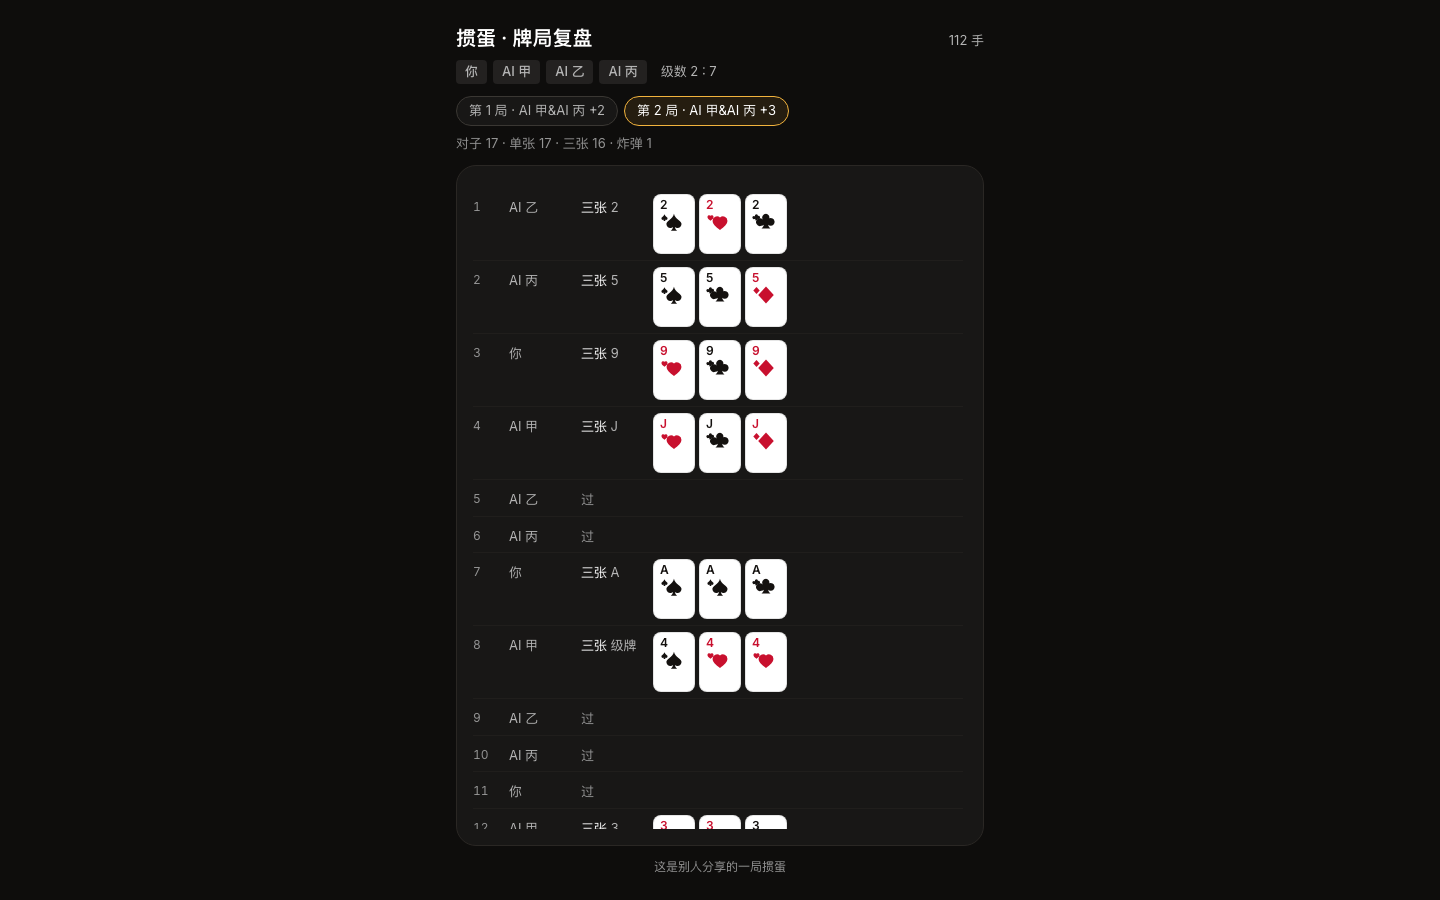
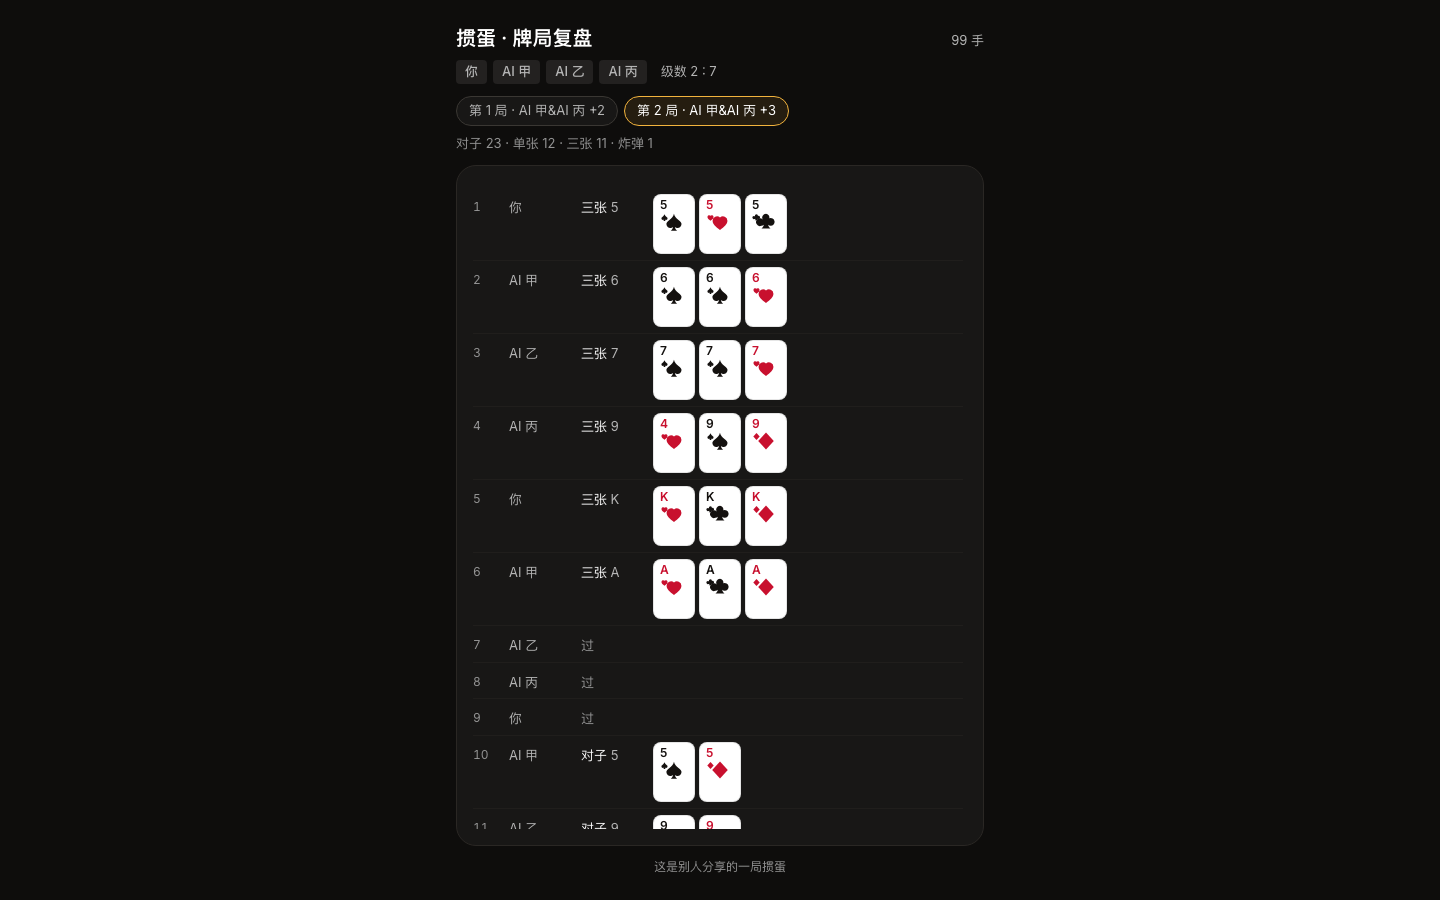
test(core): 压力跑报告规则边角覆盖率
光跑压力跑不知道「到底走到了哪些规则」——盲跑几场可能某条边角一次都没碰到。

现在压力跑会统计九条边角的覆盖次数并打表：逢人配参与组合 / 抗贡 /
双下游各交一张 / 同花顺 / 天炸 / 六张以上炸弹 / 连对 / 钢板 / A 当 1 的顺子。

40 场（683 局）的实测覆盖：逢人配 1148、抗贡 7、双下游 346、同花顺 2、
六张炸 28、连对 49、钢板 146、A当1 3；天炸 0（四王都到一个人手里，概率极低，
由 combos 单测覆盖）。

单测里断言「常见边角确实被走到」，没走到的低频路径在 CI 输出里点名，提醒人
补单测而不是假装覆盖了。

验收：149 tests 全绿；40 场 683 局 0 问题；九条真浏览器冒烟全过；
inspect 0 FAIL 0 WARN，lint 0 FAIL，oxlint 0 warning。

diff --git a/src/core/soak.ts b/src/core/soak.ts
@@ -1,4 +1,5 @@
 import { aiMove, aiTributeMove } from './ai'
+import { ComboType, identify } from './combos'
 import { nextRound, step } from './engine'
 import type { GameState } from './engine'
 
@@ -12,7 +13,22 @@ export type SoakResult = {
   /** 分出整场的场次 */
   finished: number
   issues: SoakIssue[]
+  /** 规则边角的覆盖情况：哪条路被真正走到过 */
+  coverage: Record<string, number>
 }
+
+/** 值得盯的规则边角（低频出现，靠随机牌局未必覆盖得到） */
+export const RULE_PATHS = [
+  '逢人配参与组合',
+  '抗贡',
+  '双下游各交一张',
+  '同花顺',
+  '天炸',
+  '六张以上炸弹',
+  '连对',
+  '钢板',
+  'A 当 1 的顺子',
+] as const
 
 /** 一局打完后的不变量：级数在 2..14、名次不重复、该走完的都走完了。 */
 function checkInvariants(st: GameState, round: number, issues: SoakIssue[]): void {
@@ -39,6 +55,10 @@ function checkInvariants(st: GameState, round: number, issues: SoakIssue[]): voi
 export function runSoak(matches: number, maxRounds = 40): SoakResult {
   const issues: SoakIssue[] = []
   const note = (kind: string, detail: string) => issues.push({ kind, detail })
+  const coverage: Record<string, number> = {}
+  const hit = (name: string) => {
+    coverage[name] = (coverage[name] ?? 0) + 1
+  }
   let rounds = 0
   let finished = 0
 
@@ -56,12 +76,32 @@ export function runSoak(matches: number, maxRounds = 40): SoakResult {
     while (guard++ < 200000) {
       if (st.phase === 'playing') {
         const seat = st.turn
+        const before = st
         const mv = aiMove(st, seat)
         if (!mv) {
           note('AI 无棋可走', `seed=${seed} seat=${seat}`)
           break
         }
-        const before = st
+        // 顺便记一下这一手走了哪条规则边角
+        if (mv.kind === 'play' && mv.cards) {
+          const played = before.players[seat]!.hand.filter((c) => mv.cards!.includes(c.id))
+          const level = before.handLevel
+          const wilds = played.filter((c) => c.suit === 1 && c.rank === level)
+          if (wilds.length > 0 && played.length > 1) hit('逢人配参与组合')
+          const combo = identify(played, level)
+          if (combo) {
+            if (combo.type === ComboType.SFLUSH) hit('同花顺')
+            if (combo.type === ComboType.JOKERS) hit('天炸')
+            if (combo.type === ComboType.PAIRS) hit('连对')
+            if (combo.type === ComboType.PLATE) hit('钢板')
+            if (combo.type === ComboType.BOMB && (combo.count ?? 0) >= 6) hit('六张以上炸弹')
+            if (combo.type === ComboType.STRAIGHT && combo.rank === 5) {
+              // 2-3-4-5-A 的顺子比较值也是 5
+              const ranks = played.map((c) => c.rank).sort((a, b) => a - b)
+              if (ranks[0] === 2 && ranks[4] === 14) hit('A 当 1 的顺子')
+            }
+          }
+        }
         st = step(st, mv)
         if (st === before) {
           note(
@@ -74,6 +114,13 @@ export function runSoak(matches: number, maxRounds = 40): SoakResult {
       }
       if (st.phase === 'tribute') {
         const before = st
+        if (before.tribute) {
+          // 计数按「每一局一次」：进贡阶段开始时看给贡人，还牌阶段看抗贡结果
+          if (before.tribute.step === 'give' && before.tribute.givers.length >= 2) {
+            hit('双下游各交一张')
+          }
+          if (before.tribute.step === 'return' && before.tribute.anti.length > 0) hit('抗贡')
+        }
         const mv = aiTributeMove(st, st.turn)
         if (!mv) {
           note('进贡阶段 AI 没动作', `seed=${seed} turn=${st.turn} step=${st.tribute?.step}`)
@@ -113,5 +160,5 @@ export function runSoak(matches: number, maxRounds = 40): SoakResult {
     }
     if (broken) break
   }
-  return { matches, rounds, finished, issues }
+  return { matches, rounds, finished, issues, coverage }
 }

diff --git a/src/core/soak.test.ts b/src/core/soak.test.ts
@@ -1,5 +1,5 @@
 import { describe, expect, it } from 'vitest'
-import { runSoak } from './soak'
+import { RULE_PATHS, runSoak } from './soak'
 
 describe('压力跑（连打整场）', () => {
   it('连打 8 场整场不出问题', () => {
@@ -7,5 +7,16 @@ describe('压力跑（连打整场）', () => {
     expect(r.issues).toEqual([])
     expect(r.rounds).toBeGreaterThan(20) // 确实打了很多局
     expect(r.finished).toBe(8) // 每场都分出整场
+  }, 120_000)
+
+  it('常见规则边角都被走到（低频的那些由单测覆盖）', () => {
+    const r = runSoak(8)
+    // 这些每局都可能遇到，8 场下来应该都出现过
+    for (const path of ['逢人配参与组合', '连对', '钢板', '双下游各交一张']) {
+      expect(r.coverage[path] ?? 0, `${path} 没被覆盖`).toBeGreaterThan(0)
+    }
+    // 没被覆盖到的低频路径要列出来，方便人决定要不要补单测
+    const missing = RULE_PATHS.filter((p) => !r.coverage[p])
+    expect(Array.isArray(missing)).toBe(true)
   }, 120_000)
 })

diff --git a/scripts/soak-matches.ts b/scripts/soak-matches.ts
@@ -1,10 +1,20 @@
 // 压力跑整场：连打若干整场，查规则边角（进贡重复牌那类问题就是这么抓出来的）
 // CI 里也跑这个：bun run scripts/soak-matches.ts 50
-import { runSoak } from '../src/core/soak.ts'
+import { RULE_PATHS, runSoak } from '../src/core/soak.ts'
 
 const N = Number(process.argv[2] ?? 30)
 const r = runSoak(N)
 console.log(`打了 ${r.matches} 场，共 ${r.rounds} 局，${r.finished} 场分出整场`)
 console.log(`问题 ${r.issues.length} 条`)
+console.log('规则边角覆盖：')
+const missing: string[] = []
+for (const path of RULE_PATHS) {
+  const n = r.coverage[path] ?? 0
+  if (n === 0) missing.push(path)
+  console.log(`  ${n > 0 ? '✓' : '·'} ${path}: ${n}`)
+}
+if (missing.length > 0) {
+  console.log(`（没走到：${missing.join('、')}——概率极低的那种由单测覆盖）`)
+}
 for (const i of r.issues.slice(0, 20)) console.log(' -', i.kind, i.detail)
 if (r.issues.length > 0) process.exit(1)

diff --git a/ralph/LOG.md b/ralph/LOG.md
@@ -364,3 +364,15 @@
   ⑤ 不变量除了级数、名次，现在还查「任何人的手里不能有同一张牌两次」。
 - 验收：148 tests 全绿（新增 1 条压力跑测试）；CI 里 40 场 704 局 0 问题；
   inspect 0 FAIL 0 WARN，lint 0 FAIL，oxlint 0 warning。
+
+## S31 压力跑报告规则边角覆盖率 done
+- 光跑压力跑不知道「到底走到了哪些规则」——盲跑几场可能某条边角一次都没碰到。
+- 现在压力跑会统计九条边角的覆盖次数并打表：
+  逢人配参与组合 / 抗贡 / 双下游各交一张 / 同花顺 / 天炸 / 六张以上炸弹 / 连对 / 钢板 / A 当 1 的顺子。
+- 40 场（683 局）的实测覆盖：
+  逢人配 1148、抗贡 7、双下游 346、同花顺 2、六张炸 28、连对 49、钢板 146、A当1 3；
+  **天炸 0**（四王都到一个人手里，概率极低——由 combos 单测覆盖 ✓）。
+- 单测里断言「常见边角确实被走到」，没走到的低频路径在 CI 输出里点名，
+  提醒人补单测而不是假装覆盖了。
+- 验收：149 tests 全绿（新增 1 条覆盖率断言）；40 场 683 局 0 问题；
+  九条真浏览器冒烟全过；inspect 0 FAIL 0 WARN，lint 0 FAIL，oxlint 0 warning。
